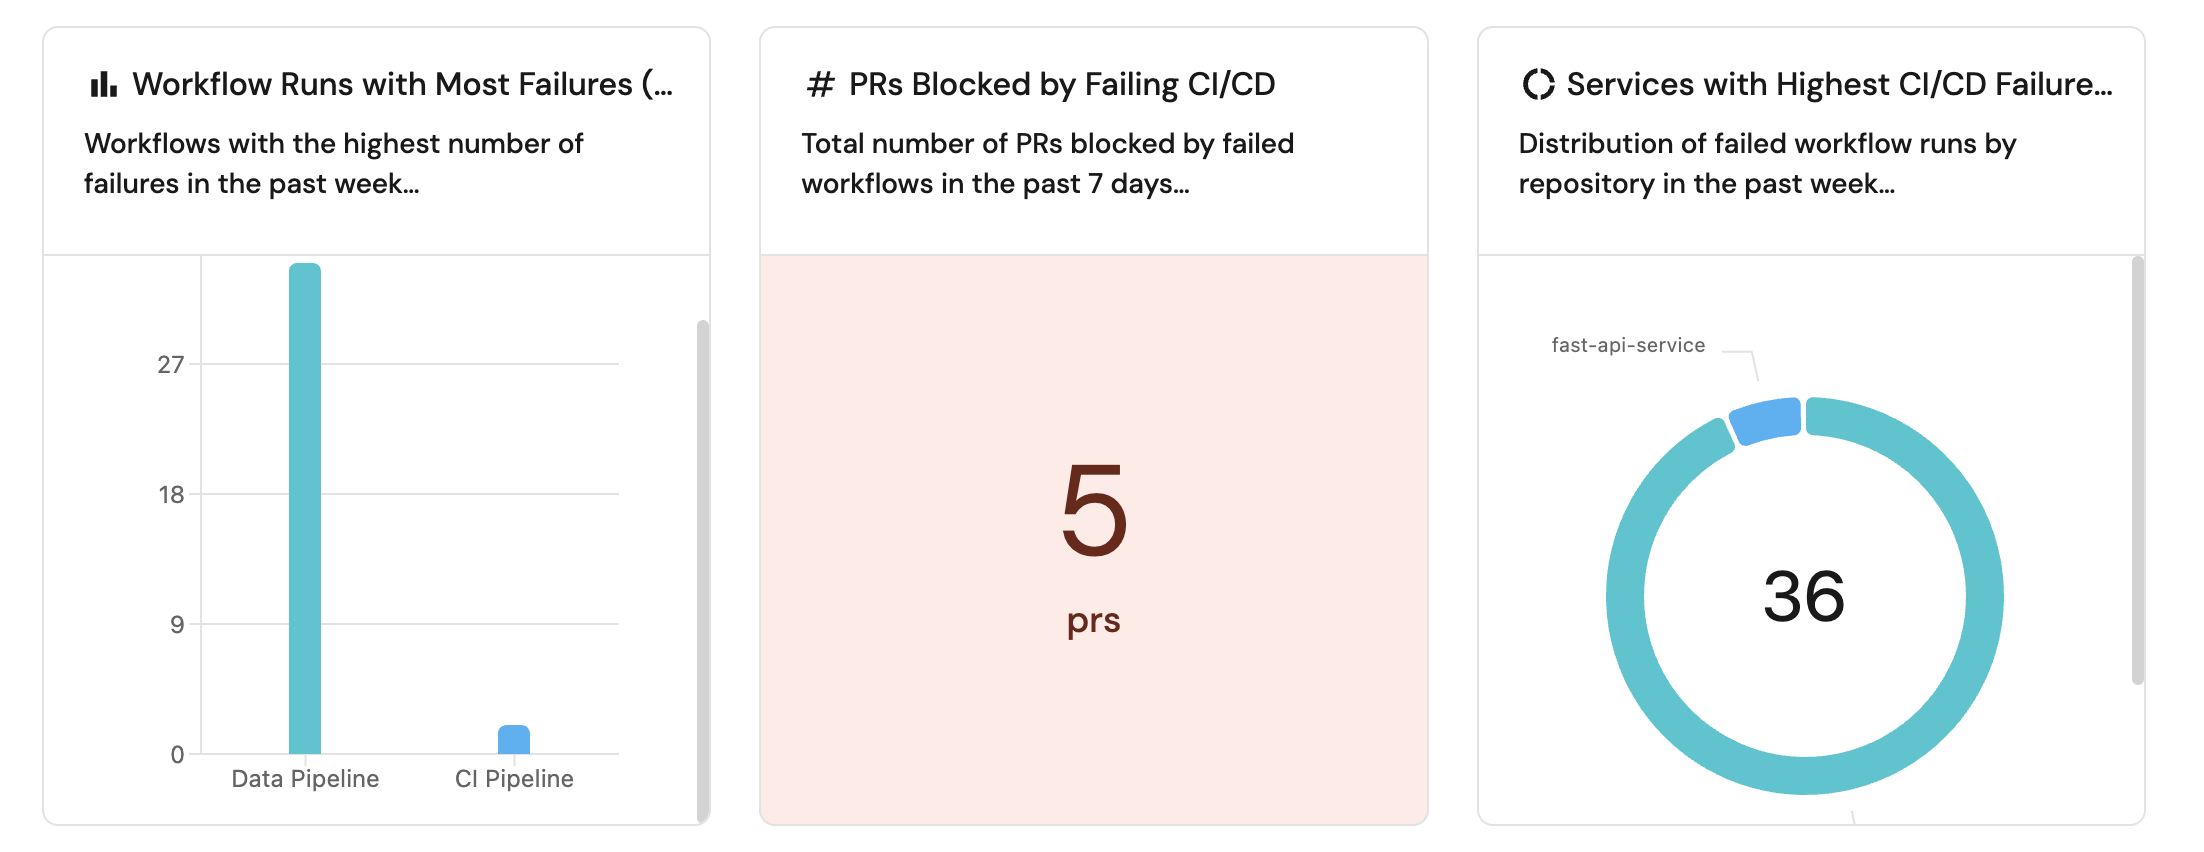
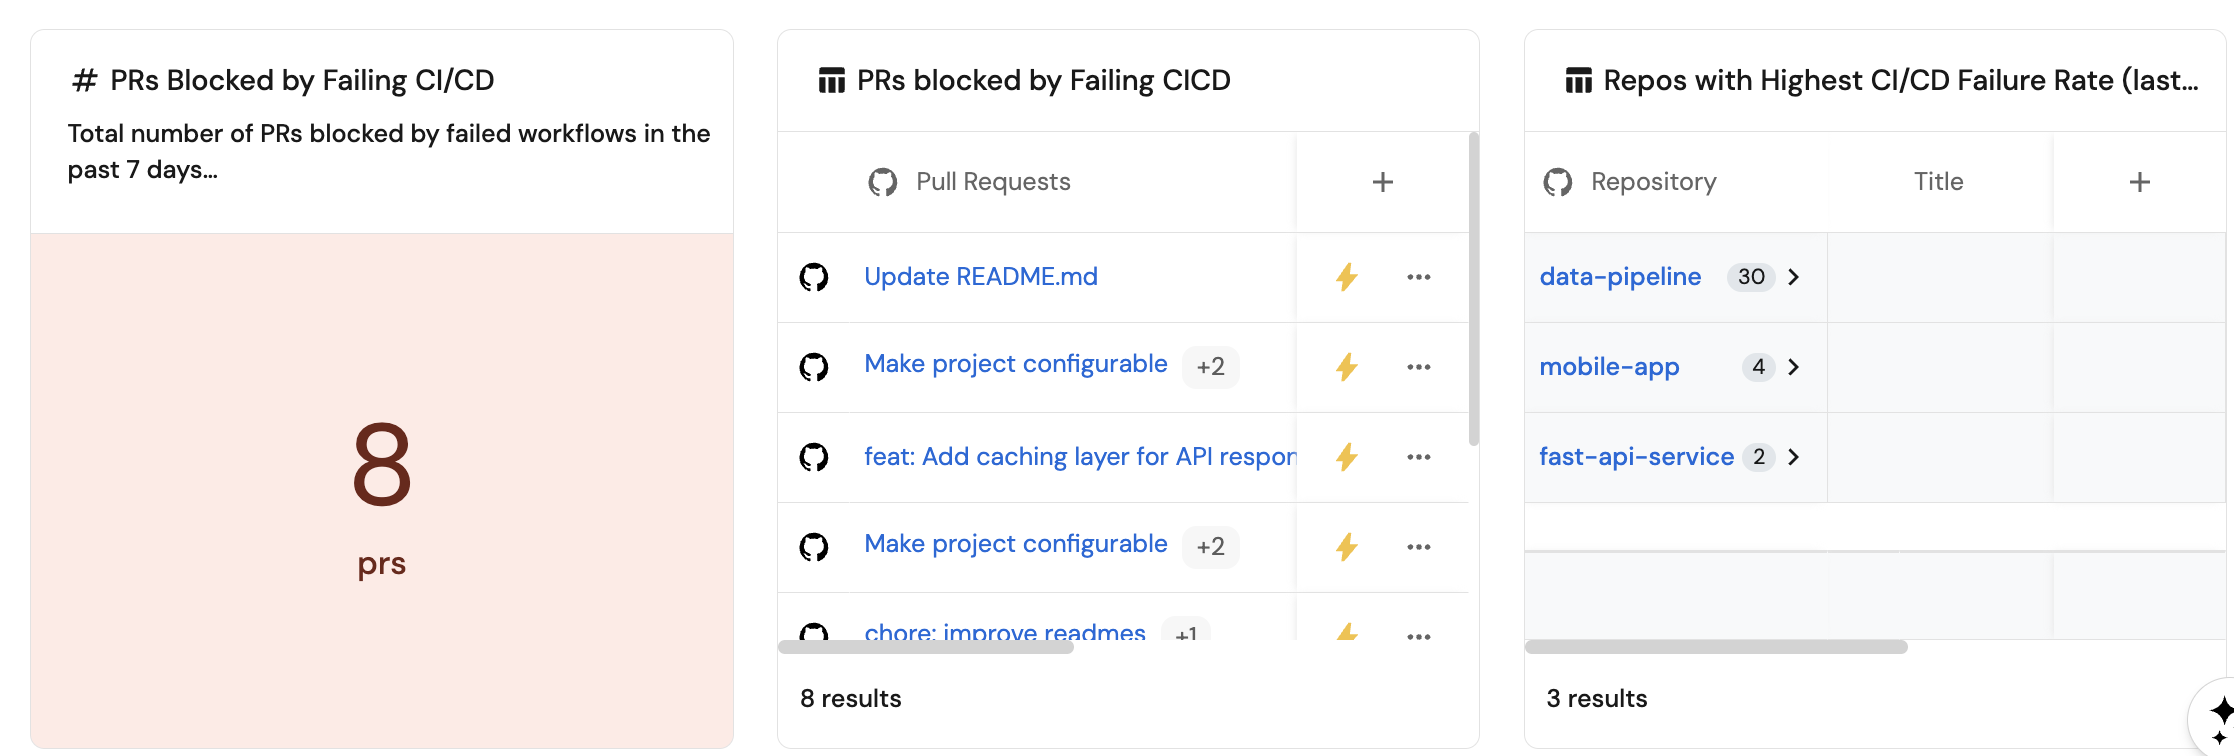
improve on guide

diff --git a/docs/guides/all/measure-reliability-and-stability.md b/docs/guides/all/measure-reliability-and-stability.md
@@ -40,12 +40,13 @@ This guide focuses on measuring reliability and stability using source control m
 
 ## Key metrics overview
 
-We will track two key metrics to measure reliability and stability:
+We will track three key metrics to measure reliability and stability:
 
 | Metric | What it measures | Why it matters |
 |--------|------------------|----------------|
 | **Workflow failure rate** | How often CI/CD workflows fail and where failures occur | Identifies unstable workflows and services that need attention, helping prioritize infrastructure improvements |
 | **PRs blocked by failing CI/CD** | Number of pull requests blocked by failed workflow runs | Shows the direct impact of CI/CD failures on delivery velocity and helps quantify the cost of instability |
+| **CI/CD failure concentration** | Distribution of CI/CD failures across workflows, services, or repos | Helps to identify recurring failure patterns and prioritise the most important issues to fix |
 
 ## Set up data model
 
